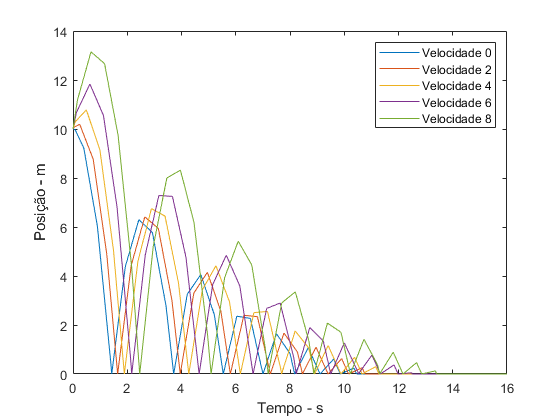
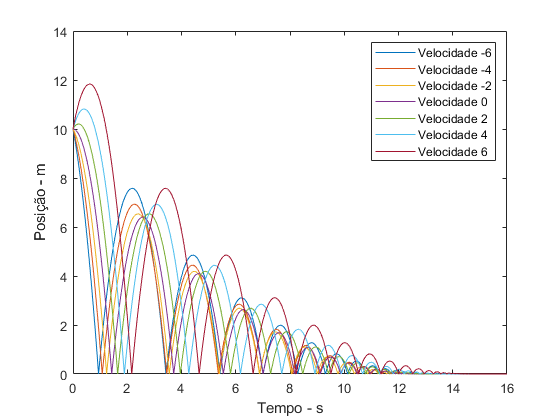
Alteração de parametros iniciais de Atenuação e Velocidade

diff --git a/Lab_3/P1.m b/Lab_3/P1.m
@@ -12,7 +12,7 @@ set_param('P1_sim', 'StopTime','25');
 warning('off', 'Simulink:Solver:ZeroCrossingNotBracketedDueToSmallSignalValues');
 
 elasticidade =-0.8;
-velocidade = 0;
+velocidade = -6;
 
 
 cores = [[0 0.4470 0.7410];
@@ -49,7 +49,7 @@ hold off;
 elasticidade =-0.8;
 set_param('P1_sim/Elasticidade_da_bola','Gain','-0.8');
 figure
-for jj=1:1:5
+for jj=1:1:7
     
     set_param('P1_sim/Velocidade_inicial','Value',num2str(velocidade));
     out=sim('P1_sim', 'SaveTime', 'on', 'SaveState', 'on');
